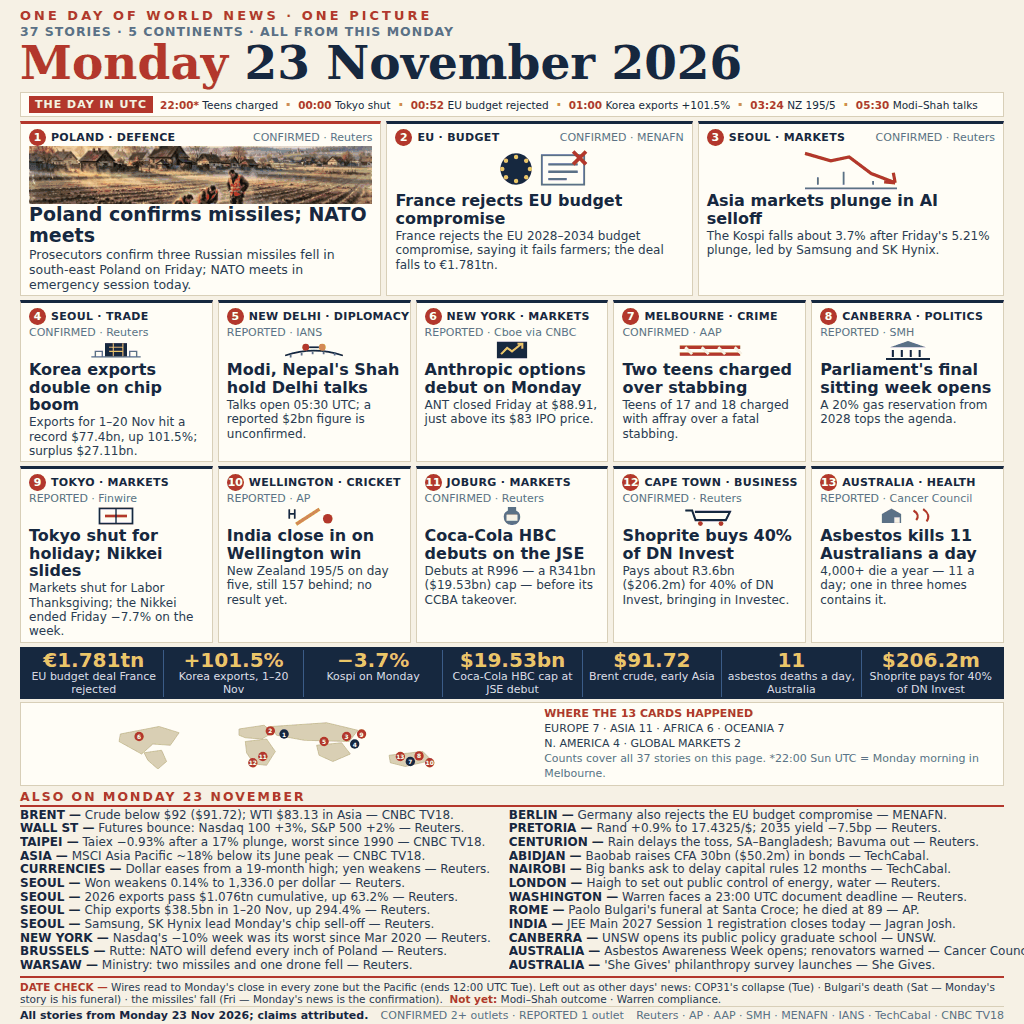
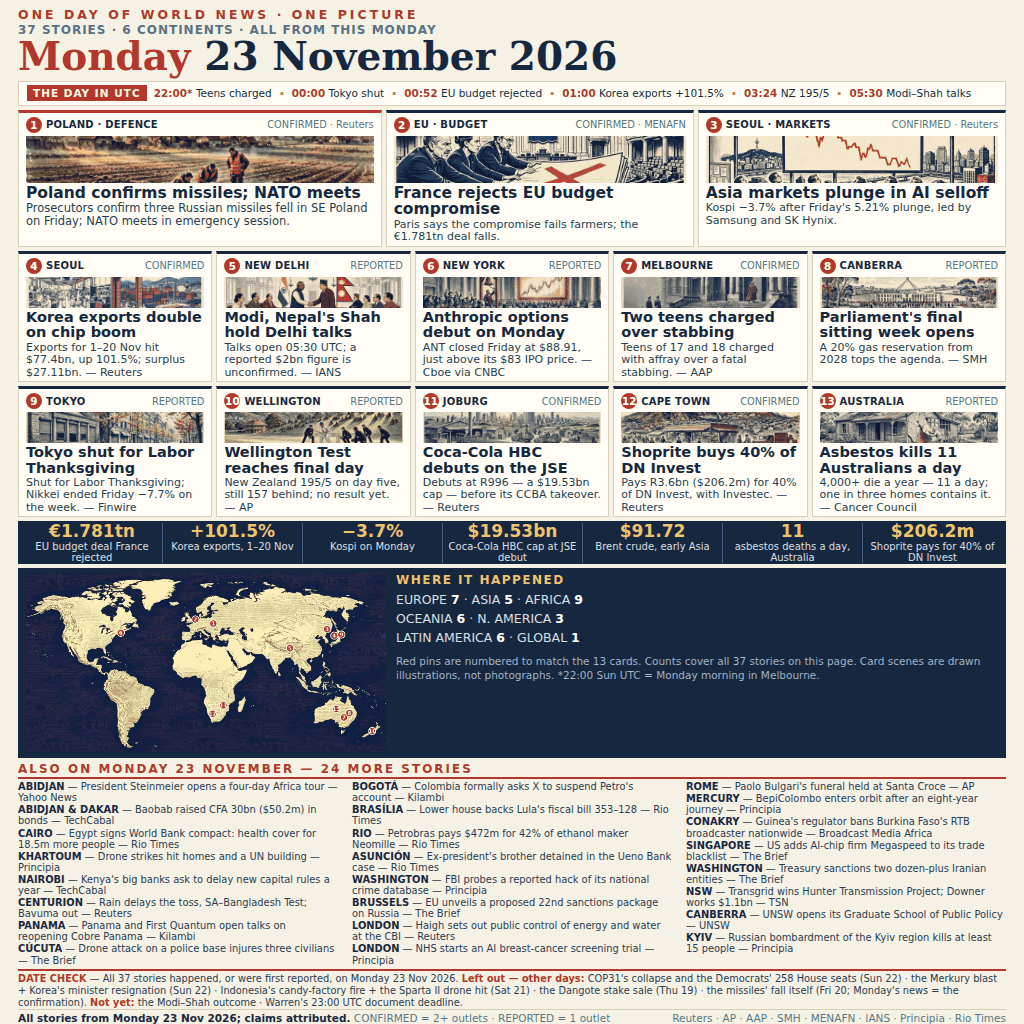
v6 revision

diff --git a/main.py b/main.py
@@ -1,62 +1,44 @@
-#!/usr/bin/env python3
-"""Entry program for news-image-20261123 (entry5).
+"""Publish the finished news page image as this entry's output.
 
-The artwork for this entry -- a single picture summing up the world
-news of Monday 23 November 2026 -- is not drawn at run time. It was
-composed once, checked, and frozen as plain bytes in ``art.png``,
-stored next to this script in the repository.
+The page itself — a one-image summary of Monday 23 November 2026's
+world news — is finalised ahead of time and stored in this repository
+as ``art.png``.  This program simply copies that file into the output
+directory under the name the grader expects, ``entry.png``.
 
-This program's whole job is to deliver those bytes, untouched, to
-``entry.png`` inside the output directory. The output directory is
-read from the ``MAKEFUN_OUTPUT_DIR`` environment variable and falls
-back to ``/output`` when the variable is not set.
-
-Nothing here depends on the clock, on randomness, or on the network,
-so every run produces exactly the same output file: a byte-identical
-copy of ``art.png``.
+Only the Python standard library is used, there is no network access,
+and the copy is a plain byte-for-byte transfer, so running the
+program any number of times always yields the identical output file.
 """
 
 import os
 import shutil
 import sys
+from pathlib import Path
 
-# Directory this script lives in; the artwork sits beside it.
-SCRIPT_DIR = os.path.dirname(os.path.abspath(__file__))
-ARTWORK_PATH = os.path.join(SCRIPT_DIR, "art.png")
-
-# File name the grader expects inside the output directory.
-ENTRY_NAME = "entry.png"
+SOURCE_NAME = "art.png"
+OUTPUT_NAME = "entry.png"
+FALLBACK_OUTPUT_DIR = "/output"
 
 
-def pick_output_dir() -> str:
-    """Return the directory the entry image belongs in."""
-    return os.environ.get("MAKEFUN_OUTPUT_DIR") or "/output"
+def output_directory() -> Path:
+    """Return the directory the grader collects output from."""
+    configured = os.environ.get("MAKEFUN_OUTPUT_DIR")
+    if configured:
+        return Path(configured)
+    return Path(FALLBACK_OUTPUT_DIR)
 
 
-def run() -> int:
-    if not os.path.isfile(ARTWORK_PATH):
-        print(f"error: embedded artwork is missing: {ARTWORK_PATH}",
-              file=sys.stderr)
-        return 1
-
-    out_dir = pick_output_dir()
-    os.makedirs(out_dir, exist_ok=True)
-
-    destination = os.path.join(out_dir, ENTRY_NAME)
-    shutil.copyfile(ARTWORK_PATH, destination)
-
-    written = os.path.getsize(destination)
-    expected = os.path.getsize(ARTWORK_PATH)
-    if written != expected:
-        print(f"error: copy check failed: {destination} holds "
-              f"{written} bytes but art.png holds {expected}",
-              file=sys.stderr)
-        return 1
-
-    print(f"wrote {destination} ({written} bytes, verified identical "
-          f"to art.png)")
-    return 0
+def main() -> None:
+    source = Path(__file__).resolve().parent / SOURCE_NAME
+    if not source.is_file():
+        print(f"error: source image not found: {source}", file=sys.stderr)
+        sys.exit(1)
+    destination_dir = output_directory()
+    destination_dir.mkdir(parents=True, exist_ok=True)
+    destination = destination_dir / OUTPUT_NAME
+    shutil.copyfile(source, destination)
+    print(f"wrote {destination} ({destination.stat().st_size} bytes)")
 
 
 if __name__ == "__main__":
-    sys.exit(run())
+    main()

diff --git a/README.md b/README.md
@@ -4,7 +4,7 @@
 [![rank](https://make.fun/badge/news-image-20261123/fishit1070/news-image-20261123/rank.svg)](https://make.fun/bounty/news-image-20261123/leaderboard?utm_source=github&utm_medium=readme&utm_campaign=news-image-20261123)
 [![reward](https://make.fun/badge/news-image-20261123/fishit1070/news-image-20261123/reward.svg)](https://make.fun/bounty/news-image-20261123?utm_source=github&utm_medium=readme&utm_campaign=news-image-20261123)
 
-This entry sums up Monday 23 November 2026's world news in one 1024x1024 picture: 37 stories told through 13 cards, led by a painted scene of investigators working the missile debris field in Poland as NATO meets, alongside France rejecting the EU budget, Korea's record exports and the Asia selloff. Around the cards sit a seven-number strip, a pinned world map, a UTC timeline and a 24-line ledger, finished with a printed date check. The page was rendered once and is shipped as data in art.png; main.py copies it deterministically to the output directory.
+This entry renders the whole of Monday 23 November 2026 in a single 1024×1024 page: 13 illustrated story cards plus a ledger of further stories — 36 stories in total — with a world map, a UTC timeline strip, per-story verification tags and a date check separating the day's events from what came before and what has not happened yet.
 
 ## Run it
 
